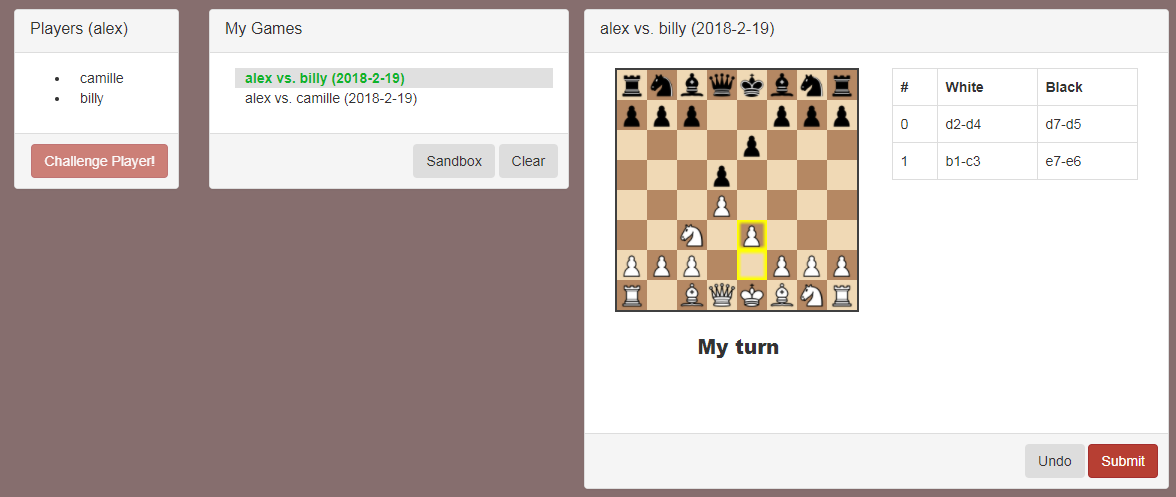
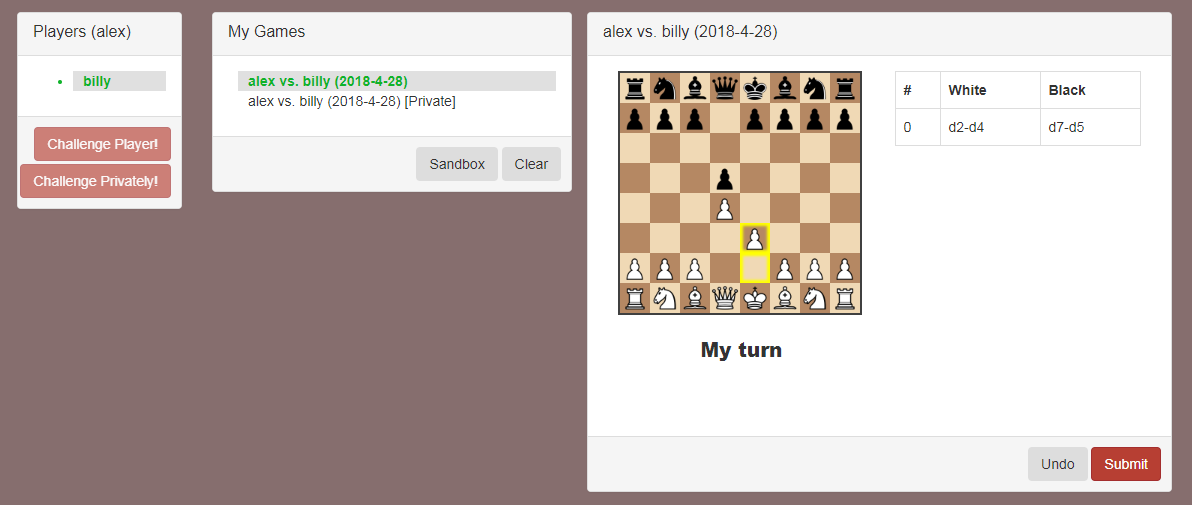
Updated documentation for Holochain v25 and private game feature

diff --git a/README.md b/README.md
@@ -39,11 +39,11 @@ You will get a response like
 Now start up Holochess in each folder.
 ```
   cd holochess1
-  hcdev -no-nat-upnp -port=6001 -agentID=alex -mdns=true -bootstrapServer=localhost:3142 web 3141
+  hcdev -DHTport=6001 -agentID=alex -mdns=true -bootstrapServer=localhost:3142 web 3141
 
   cd ..
   cd holochess2
-  hcdev -no-nat-upnp -port=6002 -agentID=billy -mdns=true -bootstrapServer=localhost:3142 web 4141
+  hcdev -DHTport=6002 -agentID=billy -mdns=true -bootstrapServer=localhost:3142 web 4141
 ```
 You will see a response like:
 ```
@@ -60,8 +60,6 @@ Each instance should see the other agent's name in the *Players* list.
 You now have 2 instances of Holochess that can interact.
 Challenge an opponent to create a game and submit your move to start a P2P chess game!
 
-I'm making a chess game with holochain. You can check it out on github, it actually works! On my machine at least ;)  https://github.com/ddd-mtl/holochess My programmer brain couldn't come up with a better name :/
-
 
 ## Feature Roadmap
  - [x] Set default handle from AgentID string
@@ -69,8 +67,8 @@ I'm making a chess game with holochain. You can check it out on github, it actua
  - [x] View all my games
  - [x] Play a public chess game
  - [x] Chess Move validation on Zome
+ - [x] Play a private chess game
  - [ ] Enable users to change their handle
- - [ ] Play a private chess game
  - [ ] Filter my games by status (finished, pending challenge, active, etc)
  - [ ] Search and view any public game
  - [ ] Game scrubbing & playback

diff --git a/specs/README.md b/specs/README.md
@@ -1,5 +1,7 @@
 # Holochess Architecture
 
+:warning: **DOCUMENTATION OUT OF DATE** :warning:
+
 ## DNA
 
 <img src="holochessZome.png" />
@@ -30,7 +32,6 @@
 
 ## Order of events
 
-:warning: **DOCUMENTATION OUT OF DATE** :warning:
 
 1. Challenge an Opponent
 
@@ -70,5 +71,5 @@ Unit tests available
 ### Scenarios
 
  - challengeOneMove : Tests first moves of a two player public game.
- - PrivateChallenge : Tests first moves of a two player *private* game
+ - privateChallenge : Tests first moves of a two player *private* game
  - threePlayers     : Tests multiple challenges at the same time with 3 different players
